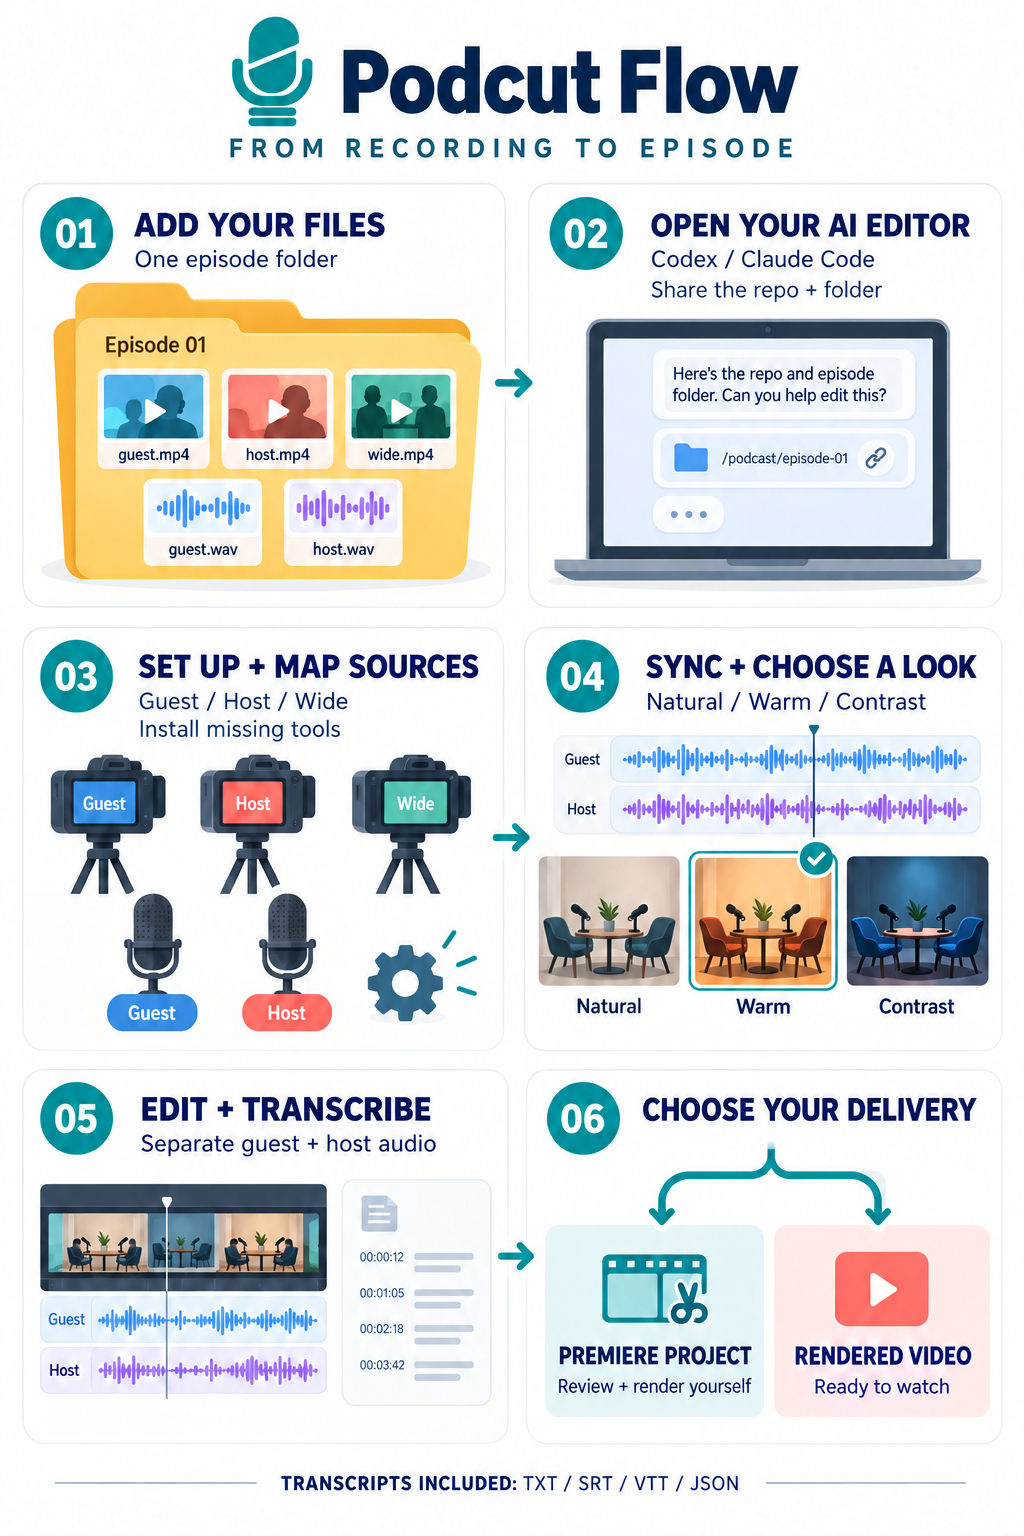
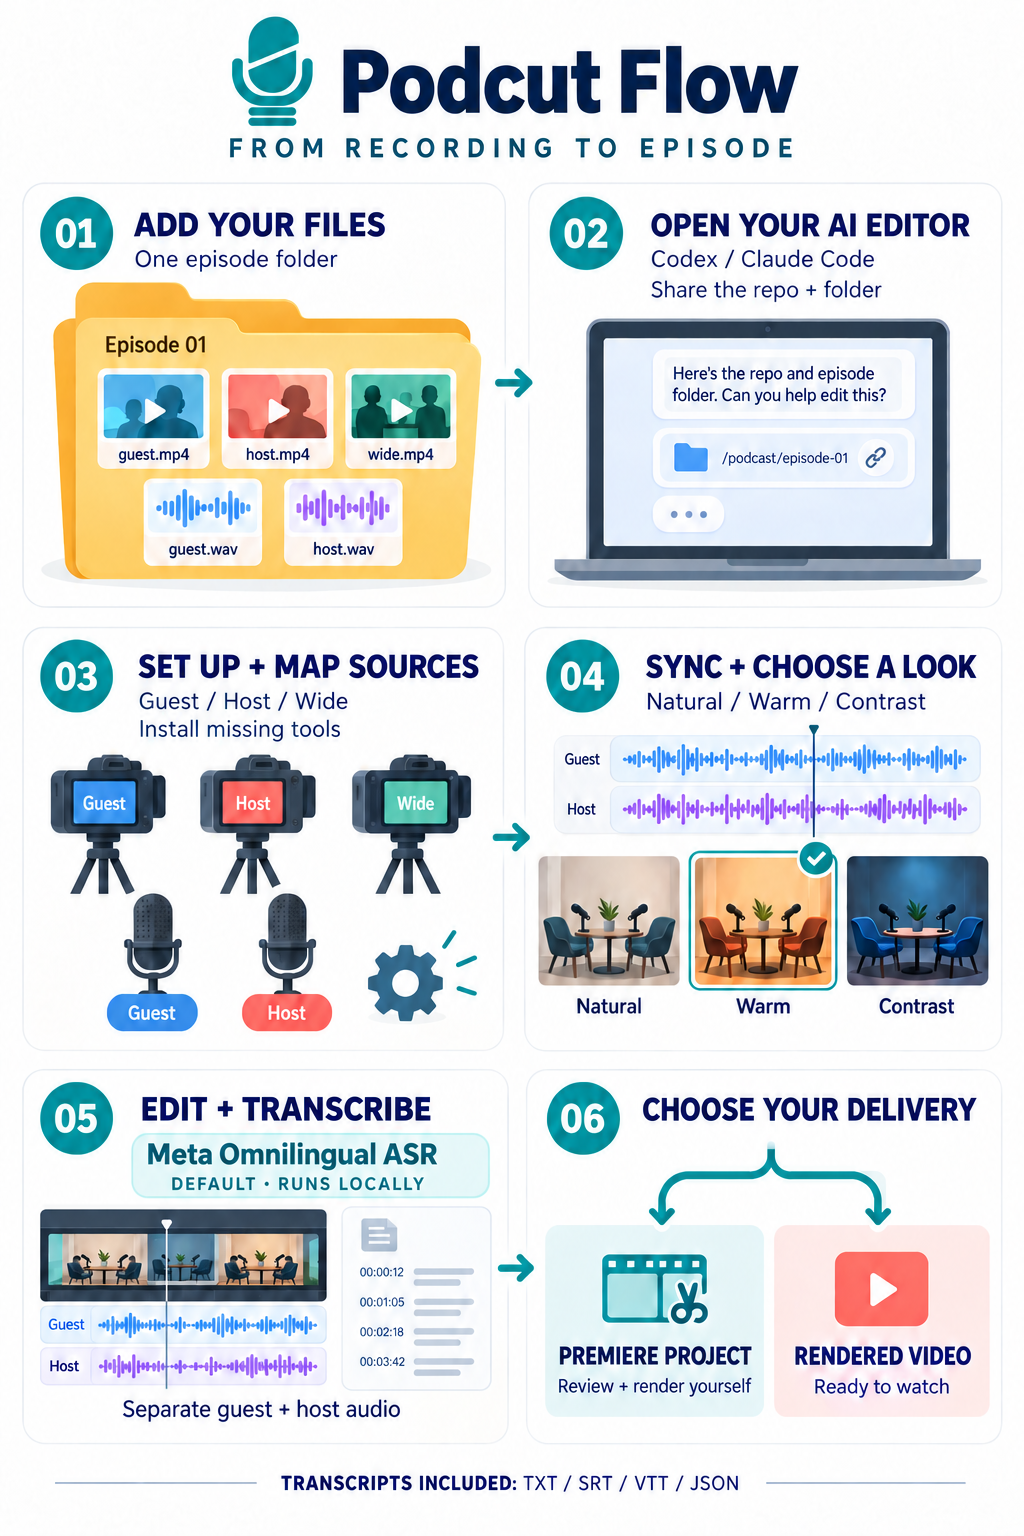
Document Meta as the default across guides and workflow artwork

diff --git a/README.md b/README.md
@@ -7,19 +7,21 @@
 
 **შენი AI პოდკასტის ედითორი — ადგილობრივი ფაილებიდან სინქრონიზებულ მონტაჟამდე.**
 
-Agent-guided podcast editing for **Codex and Claude Code**: identify the footage, synchronize cameras and microphones, choose a color look, build an edit, and deliver either an editable Premiere sequence or a rendered video. Includes local Python tools; no paid transcription API is required.
+Agent-guided podcast editing for **Codex and Claude Code**: synchronize cameras and microphones, choose a color look, edit, and deliver a Premiere project or rendered video. **Meta Omnilingual ASR is the default local transcription engine.** No paid transcription API is required.
+
+**ნაგულისხმევი ტრანსკრიპცია: Meta Omnilingual ASR** — ხმა ტექსტად შენს კომპიუტერში გარდაიქმნება. Whisper მხოლოდ სურვილისამებრ ირთვება. [როგორ მუშაობს](docs/TRANSCRIPTION.md).
 
 [English guide](docs/README.en.md) · [აგენტის დასაწყისი / Start here](START_HERE.md) · [დაყენება / Setup](docs/SETUP.md) · [Premiere](docs/PREMIERE.md) · [შეზღუდვები / Limitations](docs/LIMITATIONS.md)
 
 ## ფლოუ ერთი შეხედვით
 
-[![Podcut Flow-ს ექვსი ნაბიჯი: ფაილები, აგენტი, დაყენება, სინქრონი და ფერი, მონტაჟი და ტრანსკრიპტი, საბოლოო ფორმატი](docs/assets/podcut-workflow-guide.png)](docs/assets/podcut-workflow-guide.png)
+[![Podcut Flow-ს ექვსი ნაბიჯი: ფაილები, აგენტი, დაყენება, სინქრონი და ფერი, მონტაჟი და Meta Omnilingual ASR ტრანსკრიპცია, საბოლოო ფორმატი](docs/assets/podcut-workflow-guide.png)](docs/assets/podcut-workflow-guide.png)
 
 1. **ჩაყარე ფაილები** — ერთი ეპიზოდის ვიდეოები და ხმები ერთ ფოლდერში მოათავსე.
 2. **გაუზიარე აგენტს** — Codex-ს ან Claude Code-ს მიეცი ამ რეპოზიტორიის ლინკი და ეპიზოდის ფოლდერის გზა.
 3. **მოამზადე გარემო** — აგენტი აყენებს დანაკლის პროგრამებს და გეკითხება, ვის ეკუთვნის თითოეული კამერა და მიკროფონი.
 4. **შეამოწმე სინქრონი და აირჩიე ფერი** — ხმა და კადრები სინქრონდება; თუ ფერის დამუშავება გინდა, რეალური კადრების ვარიანტებიდან ირჩევ.
-5. **მიიღე მონტაჟი და ტრანსკრიპტი** — დამოუკიდებელი მიკროფონები ცალკე ტრეკებზე რჩება; ტექსტს წყაროსა და მონტაჟის ტაიმკოდები ახლავს.
+5. **მიიღე მონტაჟი და Meta-ს ტრანსკრიპტი** — Meta Omnilingual ASR ნაგულისხმევად ადგილობრივად მუშაობს; დამოუკიდებელი მიკროფონები ცალკე ტრეკებზე რჩება, ტექსტს კი წყაროსა და მონტაჟის ტაიმკოდები ახლავს.
 6. **აირჩიე შედეგი** — Premiere-ში აწყობილი პროექტი შენს გადასამოწმებლად და დასარენდერებლად, ან უკვე დარენდერებული ვიდეო.
 
 სქემა საილუსტრაციო მაგალითია. საერთო კადრი და ცალკე მიკროფონები სავალდებულო არ არის; აგენტი შენს ფაილებს მოერგება. ფერის ნამდვილი ვარიანტები შენი ეპიზოდის კადრებიდან მზადდება. [ლოგოს ფაილები და გრაფიკის აღწერები](docs/assets/README.md).
@@ -33,6 +35,7 @@ Agent-guided podcast editing for **Codex and Claude Code**: identify the footage
 ```text
 გამოიყენე https://github.com/AvtandilMghebrishvili/podcut-flow
 წაიკითხე START_HERE.md და შესაბამისი skill. მინდა პოდკასტის დამუშავება.
+ტრანსკრიპციისთვის გამოიყენე ნაგულისხმევი Meta Omnilingual ASR.
 ჩემი ეპიზოდის ფოლდერია: D:\Podcasts\Episode-01
 თუ რამე ინფორმაცია გაკლია, მკითხე; უკვე მოცემული პასუხები გაითვალისწინე.
 ```

diff --git a/docs/README.en.md b/docs/README.en.md
@@ -5,17 +5,17 @@
   <img src="assets/podcut-logo.png" alt="Podcut Flow cut-microphone logo" width="560">
 </picture>
 
-A reusable local podcast-editing workflow for Codex and Claude Code, with Python helpers for synchronization, color previews, edit planning, separate microphone stems, timestamped transcripts, Premiere exchange and optional rendering.
+A reusable local podcast-editing workflow for Codex and Claude Code, with **Meta Omnilingual ASR as the default local transcription engine**, synchronization, color previews, separate microphone stems, timestamped transcripts, Premiere exchange and optional rendering. Whisper is an optional comparison tool.
 
 ## The workflow at a glance
 
-[![Six illustrated steps from episode files to a Premiere project or rendered video](assets/podcut-workflow-guide.png)](assets/podcut-workflow-guide.png)
+[![Six steps from episode files through default Meta Omnilingual ASR transcription to a Premiere project or rendered video](assets/podcut-workflow-guide.png)](assets/podcut-workflow-guide.png)
 
 1. Put one episode's video and audio in one folder.
 2. Give local Codex/Claude Code this repository link and the folder path.
 3. Let the agent install missing tools and confirm each camera/microphone's role.
 4. Verify synchronization and choose a look from your actual footage if grading is wanted.
-5. Review the edit and timestamped transcripts; independent microphones stay on separate tracks.
+5. Review the edit and default Meta Omnilingual ASR transcript; recognition runs locally and independent microphones stay on separate tracks.
 6. Choose a native Premiere project for your review/render, or a rendered video.
 
 This is an illustrated example, not a product screenshot or real color preview. A wide camera and isolated microphones are optional; the agent adapts to the files you actually have. [Logo assets and generation notes](assets/README.md).
@@ -33,6 +33,7 @@ Give a local agent this prompt:
 ```text
 Use https://github.com/AvtandilMghebrishvili/podcut-flow.
 Read START_HERE.md and its podcut-flow skill. Edit my podcast.
+Use the default Meta Omnilingual ASR for transcription.
 Episode folder: /absolute/path/to/episode
 Ask only for information I have not already provided.
 ```

diff --git a/.claude/skills/podcut-flow/SKILL.md b/.claude/skills/podcut-flow/SKILL.md
@@ -1,11 +1,13 @@
 ---
 name: podcut-flow
-description: "Guide editing a local podcast episode: ask for its folder and missing camera/microphone roles, verify synchronization, offer real color variants, produce reviewed cuts and timestamped transcripts, then deliver Premiere assembly or a requested render. Includes single-camera mixed-audio clarification. Not for unrelated repository coding tasks."
+description: "Guide editing a local podcast episode with Meta Omnilingual ASR transcription by default: ask for its folder and missing source roles, verify sync, offer real color variants, produce cuts and timestamped transcripts, then deliver Premiere assembly or a requested render. Includes single-camera mixed-audio clarification. Not for unrelated repository coding tasks."
 ---
 
 # Podcut Flow for Claude Code
 
 Read the canonical [START_HERE.md](../../../START_HERE.md) and [shared skill](../../../.agents/skills/podcut-flow/SKILL.md), then follow that workflow. Resolve paths from this repository; if installed separately, first locate the repository checkout.
+
+Use **Meta Omnilingual ASR by default** for transcription and the final-clock text baseline. The normal installer and `podcut transcribe PROJECT` use Meta alone. Whisper and dual comparison are opt-in; see [transcription](../../../docs/TRANSCRIPTION.md). Preserve existing reviewed transcripts when resuming.
 
 Ask for the episode folder if absent, preserve the user's existing answers, and save state in that episode's `.podcut/`. Confirm speaker/camera/microphone mapping, color choice and final delivery. One shared audio recording cannot be relabeled as two isolated microphones. Premiere-only work must not render the complete video. Use [setup](../../../docs/SETUP.md), [workflow](../../../docs/WORKFLOW.md) and [Premiere guidance](../../../docs/PREMIERE.md) as needed.
 

diff --git a/.agents/skills/podcut-flow/SKILL.md b/.agents/skills/podcut-flow/SKILL.md
@@ -1,11 +1,13 @@
 ---
 name: podcut-flow
-description: Guide local podcast editing from a user-selected episode folder in Codex or Claude. Use for synchronizing camera footage and external microphones, speaker-led cuts, real color-look choices, timestamped transcripts, and Premiere assembly or requested rendering. Handles missing camera/microphone mapping and single-camera mixed-audio ambiguity. Do not use for unrelated coding or generated presenter videos.
+description: Guide local podcast editing from a user-selected episode folder in Codex or Claude, with Meta Omnilingual ASR transcription by default. Use for camera/microphone synchronization, speaker-led cuts, real color choices, timestamped transcripts, and Premiere assembly or requested rendering. Handles missing source mapping and single-camera mixed-audio ambiguity. Do not use for unrelated coding or generated presenter videos.
 ---
 
 # Podcut Flow
 
 Read [START_HERE.md](../../../START_HERE.md) in this repository and follow it as the canonical workflow. If this skill was copied separately, locate the repository; do not assume these relative resources still exist.
+
+Use **Meta Omnilingual ASR by default** for transcription and as the final-clock text baseline. The normal installer and `podcut transcribe PROJECT` use Meta alone. Whisper and dual comparison are opt-in. See [transcription](../../../docs/TRANSCRIPTION.md) for setup, sampling and timing review; preserve existing reviewed transcripts when resuming.
 
 Ask for the episode's absolute source folder if it was not supplied. Reuse existing answers and saved `.podcut/` state. Ask only missing camera, microphone, color, language, boundaries and delivery questions. For a single wide camera and shared audio, ask left/right identity and timestamped speaker examples; do not claim independent voice isolation.
 

diff --git a/docs/assets/README.md b/docs/assets/README.md
@@ -6,8 +6,8 @@ Original documentation artwork created with the built-in **image_gen** tool. The
 | --- | --- |
 | [podcut-logo.png](podcut-logo.png) | Teal emblem and navy wordmark on a transparent background; for light surfaces |
 | [podcut-logo-dark.png](podcut-logo-dark.png) | Teal emblem and white wordmark on an opaque charcoal background; for dark README themes |
-| [podcut-workflow-guide.png](podcut-workflow-guide.png) | Six-step illustrated quick-start guide |
+| [podcut-workflow-guide.png](podcut-workflow-guide.png) | Six-step illustrated guide; step 05 identifies Meta Omnilingual ASR as the default local transcription engine |
 
 The README selects the logo for the reader's light/dark preference. Open the workflow image for a full-size view. Its illustrations depict an example with guest, host and wide footage plus two independent microphones; they are not required input counts, actual interface screenshots or real episode color previews. See the surrounding guide for shared-audio and single-camera cases.
 
-The exact generation prompts and final refinement are saved in [prompts.json](prompts.json). The workflow's English image labels have matching Georgian explanations in the main README, and all steps remain available as accessible text. These graphics contain no real episode recordings or participant photos.
+The exact generation prompts and subsequent edits are saved in [prompts.json](prompts.json). The workflow's English image labels have matching Georgian explanations in the main README, and all steps remain available as accessible text. These graphics contain no real episode recordings or participant photos.

diff --git a/AGENTS.md b/AGENTS.md
@@ -2,6 +2,8 @@
 
 For **editing a user's podcast**, read START_HERE.md and the podcut-flow skill. Ask for the episode folder if missing. Preserve choices and source media. Follow the user's requested delivery; Premiere-only work must not trigger a full video render.
 
+**Transcription default: Meta Omnilingual ASR.** Use it for new source-clock transcripts and as the edited-clock baseline. Whisper/comparison is opt-in; see docs/TRANSCRIPTION.md. Preserve existing reviewed transcripts when resuming.
+
 For **installing the workflow**, follow docs/SETUP.md and complete missing dependency/integration setup, reusing working tools. Installation alone does not require an episode folder. Do not stop at listing downloads when the user has asked you to perform setup.
 
 For **developing this repository**, inspect relevant code, make the change, run meaningful tests with `python -m pytest`, and update affected documentation. Do not start episode intake for a coding task. Keep dependencies modest and processing local. Use synthetic media in tests. Do not add real recordings, transcripts, personal filesystem paths, local-auth files or secrets. Independent source lanes, stable timebases, stale-output rejection and honest delivery labels are required behavior.

diff --git a/CLAUDE.md b/CLAUDE.md
@@ -1,3 +1,5 @@
 # Podcut Flow
 
 Read AGENTS.md for repository instructions. For an episode-editing request, read START_HERE.md and `.claude/skills/podcut-flow/SKILL.md`. Begin with the episode folder and missing source-role questions, honor prior answers, and never render in Premiere-only mode.
+
+Use **Meta Omnilingual ASR by default** for transcription and the edited-clock transcript baseline. Install/run Whisper only when explicitly selected; follow docs/TRANSCRIPTION.md. Keep already reviewed transcripts when resuming.
